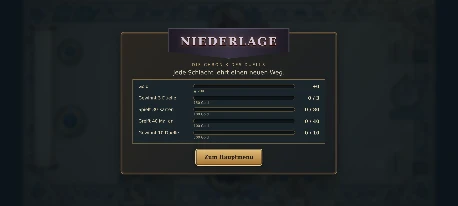
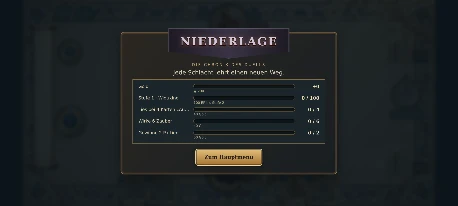
WIP: Referenzbilder, Werkzeug-Doku und README zu AP 6.3
Claude-Session: https://claude.ai/code/session_01NWxqpMkXfH5mUXA3R5vQpA

diff --git a/werkzeuge/LIESMICH.md b/werkzeuge/LIESMICH.md
@@ -1,7 +1,22 @@
-# Aeterna 1.28.0 – Bauen & Prüfen
+# Aeterna 1.30.0 – Bauen & Prüfen
 
 *Vormals „Chroniken der Helden“.* `android/` ist die native Hülle (Gradle, Kotlin), `quellcode/assets/game/` das Web-Spiel,
 das sie unter `https://chroniken.local/` ausliefert. Die Signatur erzeugt Gradle mit `signatur/chroniken-test.p12`.
+
+## Neu in 1.30.0 (AP 6.3 Aufgaben und Heldenstufen, Balance-Feinschliff)
+
+- **Modell** `model/quests.js` (`AEQ`, vor `profile.js` geladen): Tagesaufgaben (`profile.daily`), Tagesgeschenk (`profile.login`),
+  Erfahrung je Held (`profile.heroXp`), alles über `AEQ.normalize`. Jede Funktion nimmt das Datum als letzten Wert; ViewModels
+  geben `ctx.now?.()` weiter (Tests setzen `ctx.now`, der Klickpfad hat eine feste Uhr). `CHP.reward(p, s, aufgeben, datum)` ruft
+  `AEQ.finish` und liefert `r.xp` und `r.quests`.
+- **Oberfläche:** Aufgaben-Fenster in `view/dialogs.js` (Stil `view/css/quests.css`), Heldenstufe in `view/setup.js`, Balken
+  „Stufe N · Held“ im Ergebnis; Großansichten laufen über `ctx.dialogs.zoom(id)`, damit Chronikzeilen für die Lernaufgabe zählen.
+  Goldene Fassung: `CHR.gilded(id)` (goldener Rahmen oder `R.look.golden`).
+- **Balance** (nur Karten außerhalb der Startdecks): Thumelicus 2/2, Varusschlacht 5 Mana, Phalanxveteran 4/5, Griechisches Feuer
+  Belastung 3, Quintus Fabius 3/4, Krater von Vix 2 Mana, Schleuderer am Wall 3/5, Halle auf dem Mont Lassois 0/4, Gesandter aus
+  Massalia 5 Mana. Varianten vorher mit `AETERNA_MODELL=<Kopie> node werkzeuge/balance.js --partien 100 --decks zufall`.
+- Tests: neu `tests/aufgaben.test.js`, ein Test mehr in `viewmodel.test.js`; angepasst `schluessel.test.js` (Ergebnisbalken),
+  `spielgefuehl.test.js` (Glanz je Karte). Klickpfad: neues Referenzbild `17-aufgaben`, neu `01`, `08`, `12`.
 
 ## Neu in 1.28.0 (AP 5.7 Erweiterung „Wunder der Welt“ Teil 2, Rückmeldung zu 1.27.0)
 
